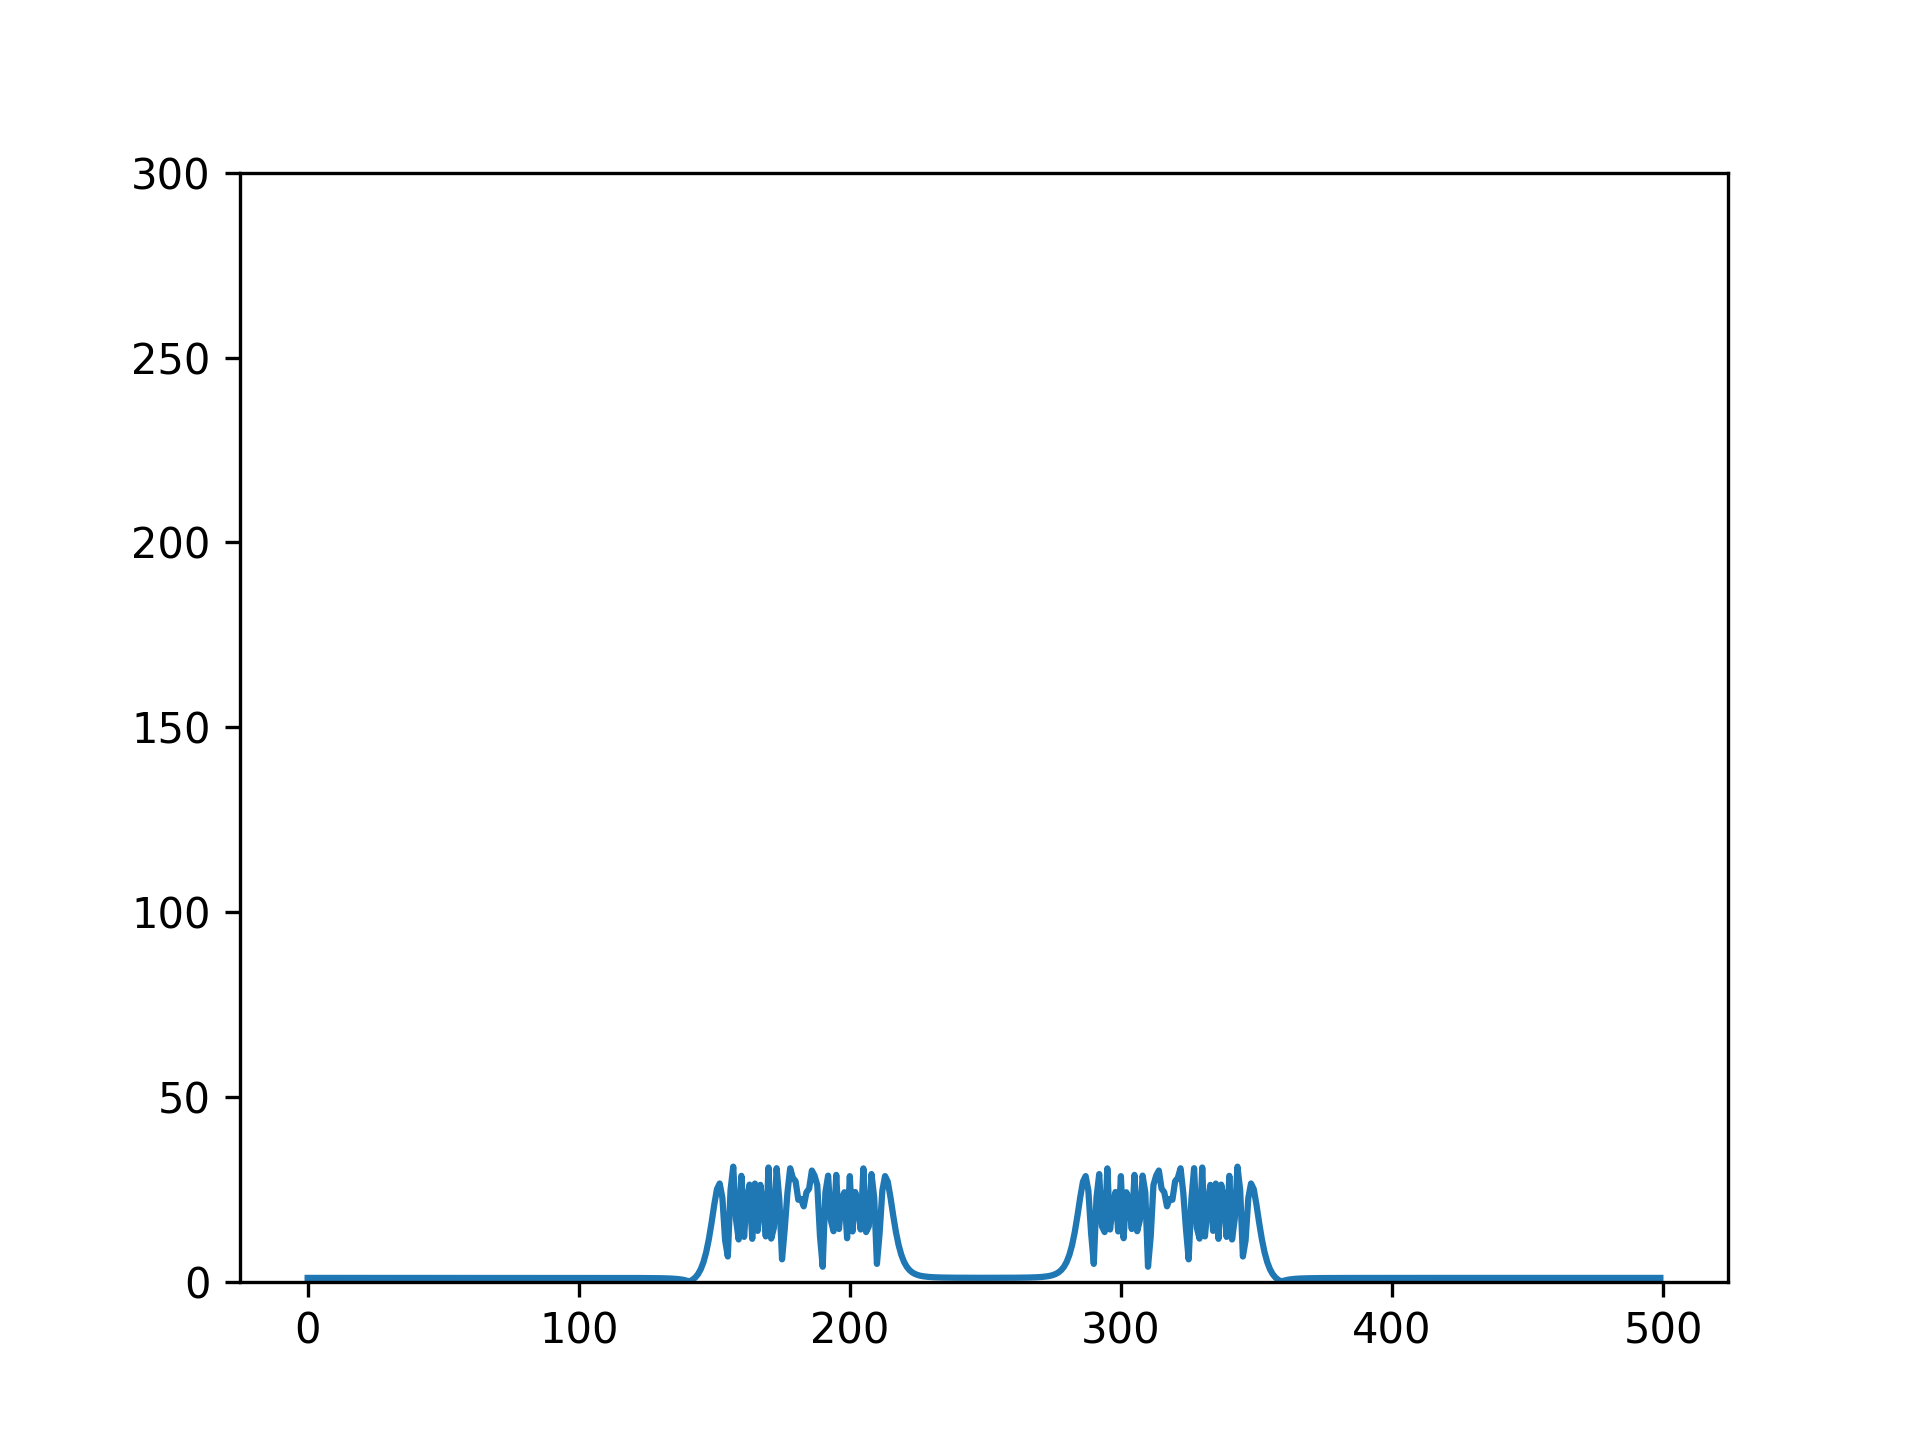
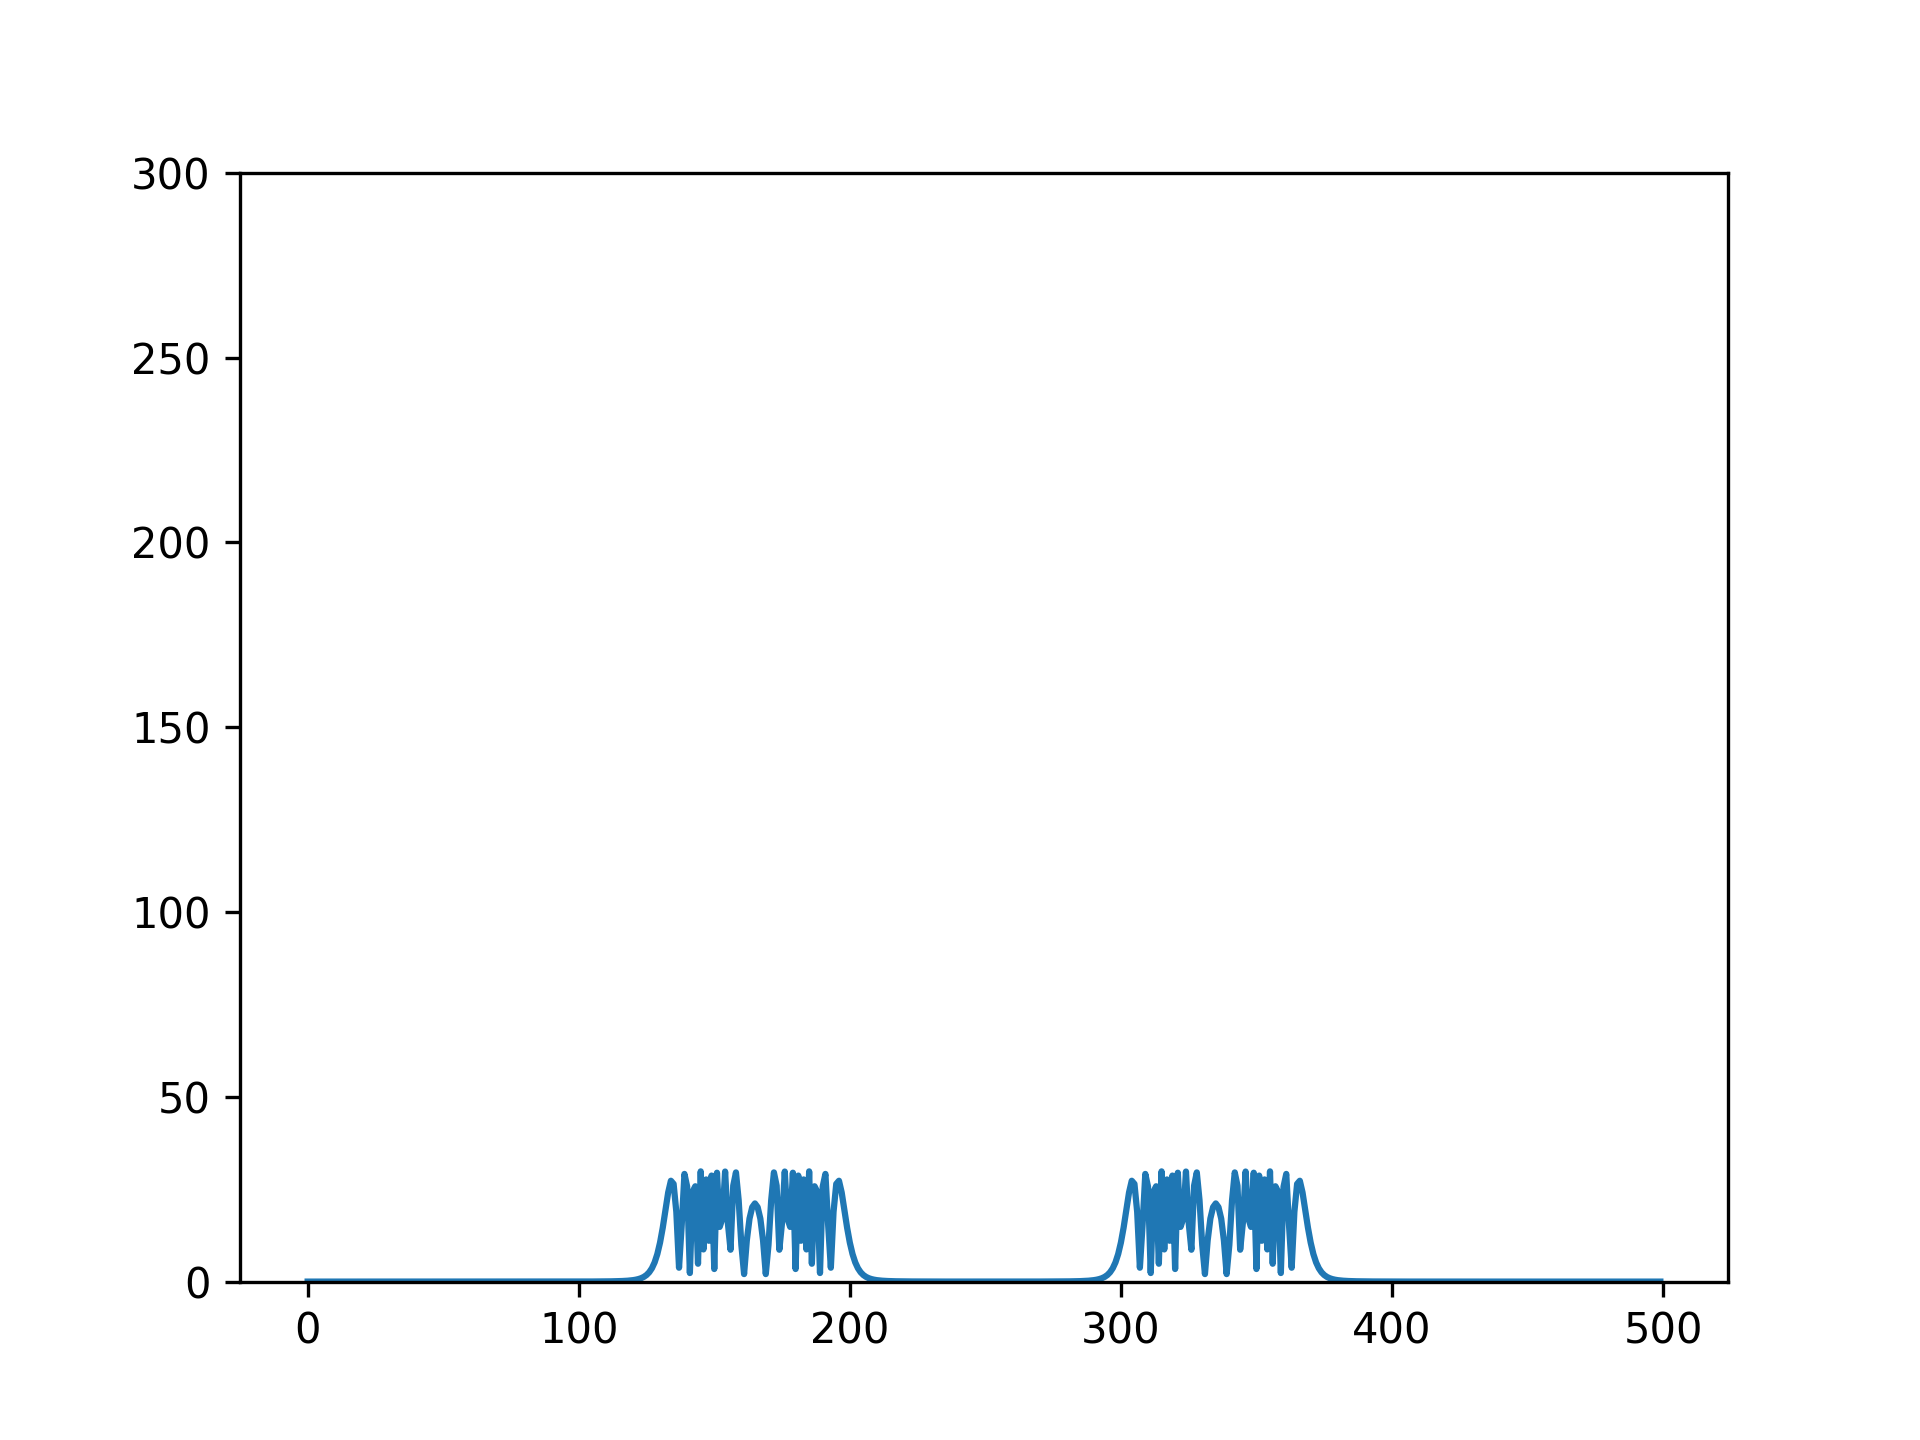
freq_doesnt... clean version

Changed region(s): [[0.1562, 0.8125, 0.8438, 0.9062]]

diff --git a/Optimal-sampling-1D/testing_perms.py b/Optimal-sampling-1D/testing_perms.py
@@ -35,8 +35,8 @@ freq_used = freq1
 dec_used = 0
 
 
-# form = exp_sig_sampled(amplitude_used, freq_used, dec_used, range(-n//2,n//2), range(-n//2,n//2)) + whitenoise(sigma,n)
-form = exp_sig_sampled(amplitude_used, freq_used, dec_used, range(-n//2,n//2), range(0,n))# + whitenoise(sigma,n)
+# form = exp_sig_sampled(amplitude_used, freq_used, dec_used, range(0,n), range(0,n)) + whitenoise(sigma,n)
+form = exp_sig_sampled(amplitude_used, freq_used, dec_used, range(0,n), range(0,n))# + whitenoise(sigma,n)
 formft = np.fft.fft(form).real
 
 max_control = max(abs(formft))
@@ -86,16 +86,16 @@ maxargs = np.zeros((n_tot,n_tot*2))
 for ni in range(n_min,n_tot):
     for nc in range(0,ni):
         sampling_forw = forw_sampling(ni,nc)
-        # form = exp_sig_sampled(amplitude_used, freq_used, dec_used, range(-n//2,n//2), sampling_forw) + whitenoise(sigma,n)
-        form = exp_sig_sampled(amplitude_used, freq_used, dec_used, range(-n//2,n//2), sampling_forw)# + whitenoise(sigma,n)
+        # form = exp_sig_sampled(amplitude_used, freq_used, dec_used, range(0,n), sampling_forw) + whitenoise(sigma,n)
+        form = exp_sig_sampled(amplitude_used, freq_used, dec_used, range(0,n), sampling_forw)# + whitenoise(sigma,n)
         formft = np.fft.fft(form).real
         maxes[ni,n_tot+1+nc] = max(abs(formft))
         maxargs[ni,n_tot+1+nc] = min(np.argmax(abs(formft))/n, 1- np.argmax(abs(formft))/n)
 # for ni in range(n_min,n_tot):
 #     for nc in range(0,ni):
 #         sampling_backw = backw_sampling(ni,nc)
-#         # form = exp_sig_sampled(amplitude_used, freq_used, dec_used, range(-n//2,n//2), sampling_forw) + whitenoise(sigma,n)
-#         form = exp_sig_sampled(amplitude_used, freq_used, dec_used, range(-n//2,n//2), sampling_backw)# + whitenoise(sigma,n)
+#         # form = exp_sig_sampled(amplitude_used, freq_used, dec_used, range(0,n), sampling_forw) + whitenoise(sigma,n)
+#         form = exp_sig_sampled(amplitude_used, freq_used, dec_used, range(0,n), sampling_backw)# + whitenoise(sigma,n)
 #         formft = np.fft.fft(form).real
 #         maxes[ni,n_tot-1-nc] = max(abs(formft))
 #         maxargs[ni,n_tot-1-nc] = min(np.argmax(abs(formft))/n, 1- np.argmax(abs(formft))/n)
@@ -118,7 +118,7 @@ if ni_max[1] > 0:
     sampling_forw = forw_sampling(ni_max[0],ni_max[1]-1)
 else:
     sampling_forw = backw_sampling(ni_max[0],-ni_max[1]-1)
-form = exp_sig_sampled(amplitude_used, freq_used, dec_used, range(-n//2,n//2), sampling_forw)# + whitenoise(sigma,n)
+form = exp_sig_sampled(amplitude_used, freq_used, dec_used, range(0,n), sampling_forw)# + whitenoise(sigma,n)
 formft = np.fft.fft(form).real
 print(max_control,max(abs(formft)))
 
@@ -141,7 +141,7 @@ maxsampling_all = np.random.choice(np.arange(n),n,replace=False)
 
 for i in range(n_trials):
     sampling_current = np.random.choice(np.arange(n),n,replace=False)
-    form = exp_sig_sampled(amplitude_used, freq_used, dec_used, range(-n//2,n//2), sampling_current)# + whitenoise(sigma,n)
+    form = exp_sig_sampled(amplitude_used, freq_used, dec_used, range(0,n), sampling_current)# + whitenoise(sigma,n)
     formft = np.fft.fft(form).real
     max_current = max(abs(formft))
     if max_current > max_all:
@@ -154,7 +154,7 @@ for i in range(n_trials):
 plt.plot(maxsampling_all)
 plt.show()
 print(max_control, max_all, maxarg_all)
-form = exp_sig_sampled(amplitude_used, freq_used, dec_used, range(-n//2,n//2), maxsampling_all)# + whitenoise(sigma,n)
+form = exp_sig_sampled(amplitude_used, freq_used, dec_used, range(0,n), maxsampling_all)# + whitenoise(sigma,n)
 formft = np.fft.fft(form).real
 plt.plot(formft)
 plt.show()'''
@@ -180,7 +180,7 @@ maxsampling_all = np.random.choice(np.arange(n),n,replace=False)
 
 for i in range(n_trials):
     sampling_current = random_forw_sampling(n_pieces)
-    form = exp_sig_sampled(amplitude_used, freq_used, dec_used, range(-n//2,n//2), sampling_current)# + whitenoise(sigma,n)
+    form = exp_sig_sampled(amplitude_used, freq_used, dec_used, range(0,n), sampling_current)# + whitenoise(sigma,n)
     formft = np.fft.fft(form).real
     max_current = max(abs(formft))
     if max_current > max_all:
@@ -192,7 +192,7 @@ for i in range(n_trials):
 
 plt.plot(maxsampling_all)
 plt.show()
-form = exp_sig_sampled(amplitude_used, freq_used, dec_used, range(-n//2,n//2), maxsampling_all)# + whitenoise(sigma,n)
+form = exp_sig_sampled(amplitude_used, freq_used, dec_used, range(0,n), maxsampling_all)# + whitenoise(sigma,n)
 formft = np.fft.fft(form).real
 print(max_control, max_all, maxarg_all)
 plt.plot(abs(formft))
@@ -207,8 +207,8 @@ plt.show()'''
 
 # for nc in range(n):
 #     sampling_forw = forw_sampling(n,nc)
-#     # form = exp_sig_sampled(amplitude_used, freq_used, dec_used, range(-n//2,n//2), sampling_forw) + whitenoise(sigma,n)
-#     form = exp_sig_sampled(amplitude_used, freq_used, dec_used, range(-n//2,n//2), sampling_forw)# + whitenoise(sigma,n)
+#     # form = exp_sig_sampled(amplitude_used, freq_used, dec_used, range(0,n), sampling_forw) + whitenoise(sigma,n)
+#     form = exp_sig_sampled(amplitude_used, freq_used, dec_used, range(0,n), sampling_forw)# + whitenoise(sigma,n)
 #     formft = np.fft.fft(form).real
 #     maxes.append(max(abs(formft)))
 #     maxargs.append(min(np.argmax(abs(formft))/n, 1- np.argmax(abs(formft))/n))
@@ -222,7 +222,7 @@ plt.show()'''
 # ni_max = np.argmax(maxes)
 
 # sampling_forw = forw_sampling(n,ni_max)
-# form = exp_sig_sampled(amplitude_used, freq_used, dec_used, range(-n//2,n//2), sampling_forw)# + whitenoise(sigma,n)
+# form = exp_sig_sampled(amplitude_used, freq_used, dec_used, range(0,n), sampling_forw)# + whitenoise(sigma,n)
 # formft = np.fft.fft(form).real
 # print(max_control,max(abs(formft)))
 

diff --git a/optimal-sampling-1d/freq_doesnt_matter.py b/optimal-sampling-1d/freq_doesnt_matter.py
@@ -1,0 +1,85 @@
+import numpy as np
+import matplotlib.pyplot as plt
+import itertools
+
+### Functions
+
+def split(a, n):
+    k, m = divmod(len(a), n)
+    return (a[i*k+min(i, m):(i+1)*k+min(i+1, m)] for i in range(n))
+
+n = 500
+
+def signal(f, fbar, dec, sampling):
+    return [np.cos(2*np.pi*(f + fbar * tau)*t)*np.exp(-t*dec) for t, tau in zip(range(n),sampling)]
+
+def block_perm_sampling(n_pieces, perm):
+    pieces = [list(i) for i in list(split(range(n), n_pieces))]
+    sampling = []
+    for p in perm:
+        sampling += pieces[p]
+    return sampling
+
+def fitness_function(sampling, f, fbar, d_fbar, dec):
+    fit = 0
+    for k in np.linspace(-5,5,20):
+        sig = signal(f,fbar+k*d_fbar,dec,sampling)
+        sig_ft = abs(np.fft.fft(sig))
+        fit += max(abs(sig_ft))*np.exp(-alpha*abs(k))
+    return fit
+
+### Parameters
+
+f = 0.15
+fbar = 0.001/n
+dec = 0
+
+n_pieces = 6
+delta_f = 0.0002/n
+alpha = 0
+
+### Loop
+
+perms = itertools.permutations(range(n_pieces))
+
+max_all = 0
+sampling_max = None
+indx = 0
+
+maxes = []
+
+for p in perms:
+    sampling = block_perm_sampling(n_pieces,p)
+    fit_current = fitness_function(sampling,f,fbar,delta_f,dec)
+    maxes.append(fit_current)
+    indx+=1
+    if fit_current > max_all:
+        print(fit_current, indx)
+        max_all = fit_current
+        sampling_max = sampling
+
+### Plots
+
+# Best sampling
+plt.plot(sampling_max)
+plt.show()
+
+# Trivial sampling fitness
+max_control = fitness_function(range(n),f,fbar,delta_f,dec)
+print(max_control)
+
+# Fitness of all permutations and reference trivial sampling
+plt.plot(maxes)
+plt.plot([max_control for m in maxes])
+plt.show()
+
+# Trivial and optimal sampling spectra
+sig_ft = abs(np.fft.fft(signal(f,fbar,dec,range(n))))
+plt.plot(sig_ft)
+plt.show()
+
+sig_ft = abs(np.fft.fft(signal(f,fbar,dec,sampling_max)))
+plt.plot(sig_ft)
+plt.show()
+
+###
